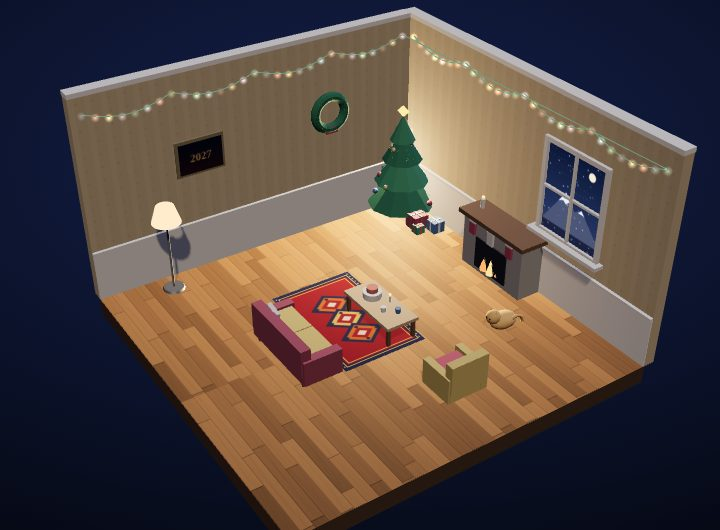
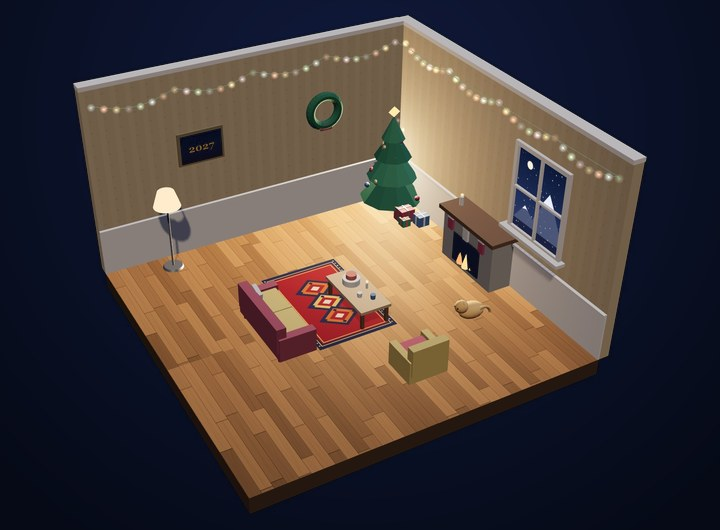
Ararat: small Sis on the left, big Masis on the right
Fire scene, room window, room TV and the saved room picture all show
the small peak on the left; Sis is lower and snow-capped.

diff --git a/public/map/index.html b/public/map/index.html
@@ -101,7 +101,7 @@
 
     <div data-view="hint">
       <h2 class="h-sub" id="panelTitle">Ամեն տեղ՝ մի սենյակ</h2>
-      <img class="lt-hint-img" src="/assets/img/room-preview.jpg?v=820f094061" alt="" width="720" height="530" loading="lazy">
+      <img class="lt-hint-img" src="/assets/img/room-preview.jpg?v=47bb290630" alt="" width="720" height="530" loading="lazy">
       <p class="muted">Վերցրու տեղ քարտեզին, և այն կդառնա քո սեփական ամանորյա սենյակը։ Զարդարիր այն եղևնիով, բազմոցով, բուխարիով և այն ամենով, ինչ սիրում ես։ Հյուրերը կարող են մտնել և ջերմություն ուղարկել։</p>
       <p class="lt-scarce">Ընդամենը 111 111 տեղ։ Մեր նպատակն է՝ լցնել բոլորը մինչև դեկտեմբերի 25-ը։ Սա միայն սկիզբն է․ միացիր մեզ, անակնկալները դեռ առջևում են։</p>
       <ol class="lt-steps">
@@ -136,7 +136,7 @@
       <h2 class="h-sub" id="dPlace"></h2>
       <p class="muted" id="dNear" style="margin-top:-6px"></p>
       <button type="button" class="lt-room" id="dRoom">
-        <span class="lt-room-img"><img id="dRoomImg" alt="" hidden><img class="lt-room-ph" src="/assets/img/room-preview.jpg?v=820f094061" alt=""></span>
+        <span class="lt-room-img"><img id="dRoomImg" alt="" hidden><img class="lt-room-ph" src="/assets/img/room-preview.jpg?v=47bb290630" alt=""></span>
         <span class="lt-room-t"><b id="dRoomT">Զարդարել սենյակը</b><span>Վերցրու տեղ քարտեզին, և այն կդառնա քո սեփական ամանորյա սենյակը։ Զարդարիր այն եղևնիով, բազմոցով, բուխարիով և այն ամենով, ինչ սիրում ես։ Հյուրերը կարող են մտնել և ջերմություն ուղարկել։</span></span>
       </button>
 
@@ -280,7 +280,7 @@
   </aside>
 </section>
 
-<div class="rm" id="roomOverlay" hidden role="dialog" aria-modal="true" aria-labelledby="rmTitle" data-three="/assets/vendor/three-r128.min.js?v=9274bbcec8" data-room="/assets/js/room.js?v=96443e5d27">
+<div class="rm" id="roomOverlay" hidden role="dialog" aria-modal="true" aria-labelledby="rmTitle" data-three="/assets/vendor/three-r128.min.js?v=9274bbcec8" data-room="/assets/js/room.js?v=ea45a5dce3">
   <canvas id="roomCanvas" aria-label="Սեղմիր իրի վրա՝ ընտրելու, քաշիր՝ տեղափոխելու համար։ Քաշիր դատարկ տեղը՝ սենյակը պտտելու համար։"></canvas>
   <div class="rm-loading" id="rmLoading"><span class="spinner" style="border-color:rgba(255,255,255,.2);border-top-color:#ffc46b"></span></div>
   <header class="rm-top">

diff --git a/public/ru/map/index.html b/public/ru/map/index.html
@@ -101,7 +101,7 @@
 
     <div data-view="hint">
       <h2 class="h-sub" id="panelTitle">Каждое место — комната</h2>
-      <img class="lt-hint-img" src="/assets/img/room-preview.jpg?v=820f094061" alt="" width="720" height="530" loading="lazy">
+      <img class="lt-hint-img" src="/assets/img/room-preview.jpg?v=47bb290630" alt="" width="720" height="530" loading="lazy">
       <p class="muted">Займите место на карте, и оно станет вашей собственной новогодней комнатой. Украсьте её ёлкой, диваном, камином и всем, что любите. Гости смогут зайти и отправить вам тепло.</p>
       <p class="lt-scarce">Всего 111 111 мест. Наша цель — заполнить их все до 25 декабря. Это только начало: присоединяйтесь, сюрпризы ещё впереди.</p>
       <ol class="lt-steps">
@@ -136,7 +136,7 @@
       <h2 class="h-sub" id="dPlace"></h2>
       <p class="muted" id="dNear" style="margin-top:-6px"></p>
       <button type="button" class="lt-room" id="dRoom">
-        <span class="lt-room-img"><img id="dRoomImg" alt="" hidden><img class="lt-room-ph" src="/assets/img/room-preview.jpg?v=820f094061" alt=""></span>
+        <span class="lt-room-img"><img id="dRoomImg" alt="" hidden><img class="lt-room-ph" src="/assets/img/room-preview.jpg?v=47bb290630" alt=""></span>
         <span class="lt-room-t"><b id="dRoomT">Украсить комнату</b><span>Займите место на карте, и оно станет вашей собственной новогодней комнатой. Украсьте её ёлкой, диваном, камином и всем, что любите. Гости смогут зайти и отправить вам тепло.</span></span>
       </button>
 
@@ -280,7 +280,7 @@
   </aside>
 </section>
 
-<div class="rm" id="roomOverlay" hidden role="dialog" aria-modal="true" aria-labelledby="rmTitle" data-three="/assets/vendor/three-r128.min.js?v=9274bbcec8" data-room="/assets/js/room.js?v=96443e5d27">
+<div class="rm" id="roomOverlay" hidden role="dialog" aria-modal="true" aria-labelledby="rmTitle" data-three="/assets/vendor/three-r128.min.js?v=9274bbcec8" data-room="/assets/js/room.js?v=ea45a5dce3">
   <canvas id="roomCanvas" aria-label="Нажмите на предмет, чтобы выбрать его, и перетащите, чтобы переставить. Тяните пустое место, чтобы повернуть комнату."></canvas>
   <div class="rm-loading" id="rmLoading"><span class="spinner" style="border-color:rgba(255,255,255,.2);border-top-color:#ffc46b"></span></div>
   <header class="rm-top">

diff --git a/public/assets/js/scene.js b/public/assets/js/scene.js
@@ -20,14 +20,14 @@
   var V_SCREEN = "varying vec2 vUv; void main(){ vUv=uv; gl_Position=vec4(position.xy,0.0,1.0); }";
   var V_OBJ = "varying vec2 vUv; void main(){ vUv=uv; gl_Position=projectionMatrix*modelViewMatrix*vec4(position,1.0); }";
 
-  // Static night: sky, stars, moon, Ararat (Masis left, Sis right, as seen from Yerevan), plain with village lights.
+  // Static night: sky, stars, moon, Ararat (Sis left, Masis right), plain with village lights.
   var F_BG = [
     "uniform vec2 uRes; uniform float uPR; uniform float uHorizon; uniform float uMX; uniform float uMH; uniform float uSX; uniform float uSH;",
     "uniform vec3 uMoon;",
     NOISE,
-    "float hM(float x){ float d=(x-uMX)/(uMH*2.4); d*= d<0.0?0.72:1.0;",
+    "float hM(float x){ float d=(x-uMX)/(uMH*2.4); d*= d>0.0?0.72:1.0;",
     "  float h=uMH*exp(-pow(abs(d)*2.6,1.4));",
-    "  h+=uMH*0.035*exp(-pow((x-(uMX+uMH*0.3))/(uMH*0.2),2.0));",
+    "  h+=uMH*0.035*exp(-pow((x-(uMX-uMH*0.3))/(uMH*0.2),2.0));",
     "  return h; }",
     "float hS(float x){ float d=abs(x-uSX)/(uSH*1.75); float r=sqrt(d*d+0.0025)-0.05; return uSH*pow(max(0.0,1.0-r),1.25); }",
     "float heightAt(float x){ float a=hM(x); float b=hS(x); float k=uMH*0.1; float hh=max(k-abs(a-b),0.0)/k; float h=max(a,b)+hh*hh*k*0.25;",
@@ -72,7 +72,7 @@
     "      float gul=fbm(vec2(x*0.045+y*0.006,y*0.02)); float ridged=1.0-abs(gul*2.0-1.0);",
     "      vec3 rock=mix(vec3(0.03,0.037,0.062),vec3(0.07,0.08,0.115),light*0.75+ridged*0.25);",
     "      float fing=pow(fbm(vec2(x*0.045,3.0)),2.2)*uMH*0.3+pow(fbm(vec2(x*0.11,9.0)),3.0)*uMH*0.12;",
-    "      float snowLine=uMH*0.7+(fbm(vec2(x*0.015,2.0))-0.5)*uMH*0.14-fing+(fbm(vec2(x,y)*0.07)-0.5)*uMH*0.05;",
+    "      float snowLine=uMH*0.55+(fbm(vec2(x*0.015,2.0))-0.5)*uMH*0.14-fing+(fbm(vec2(x,y)*0.07)-0.5)*uMH*0.05;",
     "      float sn=smoothstep(snowLine-1.5,snowLine+5.0,y);",
     "      sn*=1.0-0.35*smoothstep(0.62,0.75,fbm(vec2(x*0.035,y*0.06)+5.0));",
     "      vec3 snow=vec3(0.3,0.345,0.45)*(0.45+0.7*light)*(0.85+0.15*fbm3(vec2(x,y)*0.15));",
@@ -393,9 +393,10 @@
       L.fh = Math.min(L.fw * 1.7, H * (wide ? 0.4 : 0.3));
       L.baseY = L.horizon * 0.42;
       L.mH = wide ? Math.min(H * 0.3, W * 0.2) : Math.min(W * 0.42, H * 0.24);
-      L.mX = wide ? (center ? W * 0.3 : W * 0.5) : W * 0.24;
-      L.sX = wide ? L.mX + L.mH * 2.3 : W * 0.86;
-      L.sH = L.mH * 0.6;
+      // Sis stands on Masis's left shoulder, clearly lower (3896 m vs 5137 m).
+      L.sX = wide ? (center ? W * 0.12 : W * 0.3) : W * 0.12;
+      L.mX = L.sX + L.mH * 1.6;
+      L.sH = L.mH * 0.7;
       L.moonX = wide ? W * 0.84 : -200; L.moonY = H * 0.82; L.moonR = wide ? 11 : 9;
     }
 

diff --git a/site/assets/js/scene.js b/site/assets/js/scene.js
@@ -20,14 +20,14 @@
   var V_SCREEN = "varying vec2 vUv; void main(){ vUv=uv; gl_Position=vec4(position.xy,0.0,1.0); }";
   var V_OBJ = "varying vec2 vUv; void main(){ vUv=uv; gl_Position=projectionMatrix*modelViewMatrix*vec4(position,1.0); }";
 
-  // Static night: sky, stars, moon, Ararat (Masis left, Sis right, as seen from Yerevan), plain with village lights.
+  // Static night: sky, stars, moon, Ararat (Sis left, Masis right), plain with village lights.
   var F_BG = [
     "uniform vec2 uRes; uniform float uPR; uniform float uHorizon; uniform float uMX; uniform float uMH; uniform float uSX; uniform float uSH;",
     "uniform vec3 uMoon;",
     NOISE,
-    "float hM(float x){ float d=(x-uMX)/(uMH*2.4); d*= d<0.0?0.72:1.0;",
+    "float hM(float x){ float d=(x-uMX)/(uMH*2.4); d*= d>0.0?0.72:1.0;",
     "  float h=uMH*exp(-pow(abs(d)*2.6,1.4));",
-    "  h+=uMH*0.035*exp(-pow((x-(uMX+uMH*0.3))/(uMH*0.2),2.0));",
+    "  h+=uMH*0.035*exp(-pow((x-(uMX-uMH*0.3))/(uMH*0.2),2.0));",
     "  return h; }",
     "float hS(float x){ float d=abs(x-uSX)/(uSH*1.75); float r=sqrt(d*d+0.0025)-0.05; return uSH*pow(max(0.0,1.0-r),1.25); }",
     "float heightAt(float x){ float a=hM(x); float b=hS(x); float k=uMH*0.1; float hh=max(k-abs(a-b),0.0)/k; float h=max(a,b)+hh*hh*k*0.25;",
@@ -72,7 +72,7 @@
     "      float gul=fbm(vec2(x*0.045+y*0.006,y*0.02)); float ridged=1.0-abs(gul*2.0-1.0);",
     "      vec3 rock=mix(vec3(0.03,0.037,0.062),vec3(0.07,0.08,0.115),light*0.75+ridged*0.25);",
     "      float fing=pow(fbm(vec2(x*0.045,3.0)),2.2)*uMH*0.3+pow(fbm(vec2(x*0.11,9.0)),3.0)*uMH*0.12;",
-    "      float snowLine=uMH*0.7+(fbm(vec2(x*0.015,2.0))-0.5)*uMH*0.14-fing+(fbm(vec2(x,y)*0.07)-0.5)*uMH*0.05;",
+    "      float snowLine=uMH*0.55+(fbm(vec2(x*0.015,2.0))-0.5)*uMH*0.14-fing+(fbm(vec2(x,y)*0.07)-0.5)*uMH*0.05;",
     "      float sn=smoothstep(snowLine-1.5,snowLine+5.0,y);",
     "      sn*=1.0-0.35*smoothstep(0.62,0.75,fbm(vec2(x*0.035,y*0.06)+5.0));",
     "      vec3 snow=vec3(0.3,0.345,0.45)*(0.45+0.7*light)*(0.85+0.15*fbm3(vec2(x,y)*0.15));",
@@ -393,9 +393,10 @@
       L.fh = Math.min(L.fw * 1.7, H * (wide ? 0.4 : 0.3));
       L.baseY = L.horizon * 0.42;
       L.mH = wide ? Math.min(H * 0.3, W * 0.2) : Math.min(W * 0.42, H * 0.24);
-      L.mX = wide ? (center ? W * 0.3 : W * 0.5) : W * 0.24;
-      L.sX = wide ? L.mX + L.mH * 2.3 : W * 0.86;
-      L.sH = L.mH * 0.6;
+      // Sis stands on Masis's left shoulder, clearly lower (3896 m vs 5137 m).
+      L.sX = wide ? (center ? W * 0.12 : W * 0.3) : W * 0.12;
+      L.mX = L.sX + L.mH * 1.6;
+      L.sH = L.mH * 0.7;
       L.moonX = wide ? W * 0.84 : -200; L.moonY = H * 0.82; L.moonR = wide ? 11 : 9;
     }
 

diff --git a/public/assets/js/room.js b/public/assets/js/room.js
@@ -174,10 +174,11 @@
       g.fillStyle = sky; g.fillRect(0, 0, W, H);
       g.fillStyle = "#fff"; for (var s = 0; s < 40; s++) { g.globalAlpha = 0.3 + 0.7 * ((s * 37) % 10) / 10; g.fillRect((s * 71) % W, (s * 43) % 150, 1.4, 1.4); }
       g.globalAlpha = 1;
-      g.fillStyle = "#f6efd8"; g.beginPath(); g.arc(196, 52, 15, 0, 7); g.fill();
-      g.fillStyle = "#4b5679"; g.beginPath(); g.moveTo(-10, 300); g.lineTo(96, 150); g.lineTo(140, 200); g.lineTo(170, 182); g.lineTo(270, 290); g.lineTo(270, 330); g.lineTo(-10, 330); g.fill();
-      g.fillStyle = "#e9eefc"; g.beginPath(); g.moveTo(66, 192); g.lineTo(96, 150); g.lineTo(126, 186); g.lineTo(112, 180); g.lineTo(100, 192); g.lineTo(86, 182); g.fill();
-      g.beginPath(); g.moveTo(156, 196); g.lineTo(170, 182); g.lineTo(186, 198); g.lineTo(176, 196); g.fill();
+      g.fillStyle = "#f6efd8"; g.beginPath(); g.arc(60, 56, 15, 0, 7); g.fill();
+      // Small Sis on the left, tall Masis on the right.
+      g.fillStyle = "#4b5679"; g.beginPath(); g.moveTo(-10, 300); g.lineTo(58, 214); g.lineTo(102, 250); g.lineTo(176, 112); g.lineTo(270, 280); g.lineTo(270, 330); g.lineTo(-10, 330); g.fill();
+      g.fillStyle = "#e9eefc"; g.beginPath(); g.moveTo(140, 168); g.lineTo(176, 112); g.lineTo(212, 168); g.lineTo(198, 160); g.lineTo(186, 174); g.lineTo(172, 160); g.lineTo(156, 172); g.fill();
+      g.beginPath(); g.moveTo(44, 232); g.lineTo(58, 214); g.lineTo(76, 230); g.lineTo(66, 226); g.fill();
       g.fillStyle = "#1a2140"; g.fillRect(0, 285, W, 40);
       g.fillStyle = "#ffd27a"; [[30, 292], [62, 296], [120, 290], [180, 295], [220, 291]].forEach(function (p) { g.fillRect(p[0], p[1], 3, 3); });
       g.fillStyle = "#fff";
@@ -200,7 +201,7 @@
       }
       if (t.mode === 2) { // snowy Ararat
         var sk = g.createLinearGradient(0, 0, 0, H); sk.addColorStop(0, "#0d1a40"); sk.addColorStop(1, "#33406b"); g.fillStyle = sk; g.fillRect(0, 0, W, H);
-        g.fillStyle = "#e9eefc"; g.beginPath(); g.moveTo(20, 130); g.lineTo(110, 50); g.lineTo(150, 90); g.lineTo(175, 75); g.lineTo(250, 130); g.fill();
+        g.fillStyle = "#e9eefc"; g.beginPath(); g.moveTo(6, 130); g.lineTo(66, 92); g.lineTo(98, 108); g.lineTo(162, 40); g.lineTo(250, 130); g.fill();
         g.fillStyle = "#fff"; for (var q = 0; q < 40; q++) { g.fillRect((q * 53 + time * 20) % W, (q * 29 + time * 30) % H, 2, 2); }
         t.needsUpdate = true; return;
       }

diff --git a/site/assets/js/room.js b/site/assets/js/room.js
@@ -174,10 +174,11 @@
       g.fillStyle = sky; g.fillRect(0, 0, W, H);
       g.fillStyle = "#fff"; for (var s = 0; s < 40; s++) { g.globalAlpha = 0.3 + 0.7 * ((s * 37) % 10) / 10; g.fillRect((s * 71) % W, (s * 43) % 150, 1.4, 1.4); }
       g.globalAlpha = 1;
-      g.fillStyle = "#f6efd8"; g.beginPath(); g.arc(196, 52, 15, 0, 7); g.fill();
-      g.fillStyle = "#4b5679"; g.beginPath(); g.moveTo(-10, 300); g.lineTo(96, 150); g.lineTo(140, 200); g.lineTo(170, 182); g.lineTo(270, 290); g.lineTo(270, 330); g.lineTo(-10, 330); g.fill();
-      g.fillStyle = "#e9eefc"; g.beginPath(); g.moveTo(66, 192); g.lineTo(96, 150); g.lineTo(126, 186); g.lineTo(112, 180); g.lineTo(100, 192); g.lineTo(86, 182); g.fill();
-      g.beginPath(); g.moveTo(156, 196); g.lineTo(170, 182); g.lineTo(186, 198); g.lineTo(176, 196); g.fill();
+      g.fillStyle = "#f6efd8"; g.beginPath(); g.arc(60, 56, 15, 0, 7); g.fill();
+      // Small Sis on the left, tall Masis on the right.
+      g.fillStyle = "#4b5679"; g.beginPath(); g.moveTo(-10, 300); g.lineTo(58, 214); g.lineTo(102, 250); g.lineTo(176, 112); g.lineTo(270, 280); g.lineTo(270, 330); g.lineTo(-10, 330); g.fill();
+      g.fillStyle = "#e9eefc"; g.beginPath(); g.moveTo(140, 168); g.lineTo(176, 112); g.lineTo(212, 168); g.lineTo(198, 160); g.lineTo(186, 174); g.lineTo(172, 160); g.lineTo(156, 172); g.fill();
+      g.beginPath(); g.moveTo(44, 232); g.lineTo(58, 214); g.lineTo(76, 230); g.lineTo(66, 226); g.fill();
       g.fillStyle = "#1a2140"; g.fillRect(0, 285, W, 40);
       g.fillStyle = "#ffd27a"; [[30, 292], [62, 296], [120, 290], [180, 295], [220, 291]].forEach(function (p) { g.fillRect(p[0], p[1], 3, 3); });
       g.fillStyle = "#fff";
@@ -200,7 +201,7 @@
       }
       if (t.mode === 2) { // snowy Ararat
         var sk = g.createLinearGradient(0, 0, 0, H); sk.addColorStop(0, "#0d1a40"); sk.addColorStop(1, "#33406b"); g.fillStyle = sk; g.fillRect(0, 0, W, H);
-        g.fillStyle = "#e9eefc"; g.beginPath(); g.moveTo(20, 130); g.lineTo(110, 50); g.lineTo(150, 90); g.lineTo(175, 75); g.lineTo(250, 130); g.fill();
+        g.fillStyle = "#e9eefc"; g.beginPath(); g.moveTo(6, 130); g.lineTo(66, 92); g.lineTo(98, 108); g.lineTo(162, 40); g.lineTo(250, 130); g.fill();
         g.fillStyle = "#fff"; for (var q = 0; q < 40; q++) { g.fillRect((q * 53 + time * 20) % W, (q * 29 + time * 30) % H, 2, 2); }
         t.needsUpdate = true; return;
       }

diff --git a/public/en/map/index.html b/public/en/map/index.html
@@ -101,7 +101,7 @@
 
     <div data-view="hint">
       <h2 class="h-sub" id="panelTitle">Every place is a room</h2>
-      <img class="lt-hint-img" src="/assets/img/room-preview.jpg?v=820f094061" alt="" width="720" height="530" loading="lazy">
+      <img class="lt-hint-img" src="/assets/img/room-preview.jpg?v=47bb290630" alt="" width="720" height="530" loading="lazy">
       <p class="muted">Take a place on the map and it becomes your own New Year room. Decorate it with a tree, a sofa, a fireplace and whatever you love. Guests can step inside and send you warmth.</p>
       <p class="lt-scarce">Only 111,111 places. Our goal is to fill them all by 25 December. This is only the beginning: join us, the surprises are still to come.</p>
       <ol class="lt-steps">
@@ -136,7 +136,7 @@
       <h2 class="h-sub" id="dPlace"></h2>
       <p class="muted" id="dNear" style="margin-top:-6px"></p>
       <button type="button" class="lt-room" id="dRoom">
-        <span class="lt-room-img"><img id="dRoomImg" alt="" hidden><img class="lt-room-ph" src="/assets/img/room-preview.jpg?v=820f094061" alt=""></span>
+        <span class="lt-room-img"><img id="dRoomImg" alt="" hidden><img class="lt-room-ph" src="/assets/img/room-preview.jpg?v=47bb290630" alt=""></span>
         <span class="lt-room-t"><b id="dRoomT">Decorate the room</b><span>Take a place on the map and it becomes your own New Year room. Decorate it with a tree, a sofa, a fireplace and whatever you love. Guests can step inside and send you warmth.</span></span>
       </button>
 
@@ -280,7 +280,7 @@
   </aside>
 </section>
 
-<div class="rm" id="roomOverlay" hidden role="dialog" aria-modal="true" aria-labelledby="rmTitle" data-three="/assets/vendor/three-r128.min.js?v=9274bbcec8" data-room="/assets/js/room.js?v=96443e5d27">
+<div class="rm" id="roomOverlay" hidden role="dialog" aria-modal="true" aria-labelledby="rmTitle" data-three="/assets/vendor/three-r128.min.js?v=9274bbcec8" data-room="/assets/js/room.js?v=ea45a5dce3">
   <canvas id="roomCanvas" aria-label="Tap an item to select it, drag to move it. Drag empty space to turn the room."></canvas>
   <div class="rm-loading" id="rmLoading"><span class="spinner" style="border-color:rgba(255,255,255,.2);border-top-color:#ffc46b"></span></div>
   <header class="rm-top">

diff --git a/public/live/index.html b/public/live/index.html
@@ -89,7 +89,7 @@
       <span><b data-stat="gift_fund_amd" data-format="price">—</b>Նվերների ֆոնդում</span>
     </div>
   </div>
-  <aside class="live-side" id="liveSide" data-map="/assets/data/map.js?v=ffa42527cb" data-three="/assets/vendor/three-r128.min.js?v=9274bbcec8" data-room="/assets/js/room.js?v=96443e5d27" aria-label="Քո տեղը Հայաստանի քարտեզին">
+  <aside class="live-side" id="liveSide" data-map="/assets/data/map.js?v=ffa42527cb" data-three="/assets/vendor/three-r128.min.js?v=9274bbcec8" data-room="/assets/js/room.js?v=ea45a5dce3" aria-label="Քո տեղը Հայաստանի քարտեզին">
     <div class="ls-card">
       <div class="ls-head"><span class="live-pill"><span class="dot" aria-hidden="true"></span>Հայաստանի քարտեզը</span><span class="ls-count"><b id="lsLit">—</b> / 111 111</span></div>
       <div class="ls-stage">
@@ -156,7 +156,7 @@
 
 <script src="/assets/vendor/three-r128.min.js?v=9274bbcec8" defer></script>
 <script src="/assets/vendor/gsap-3.12.5.min.js?v=28033e449a" defer></script>
-<script src="/assets/js/scene.js?v=b7917ee8d0" defer></script>
+<script src="/assets/js/scene.js?v=8fa1f33854" defer></script>
 <script src="/assets/js/site.js?v=9c99a52b63" defer></script>
 <script src="/assets/js/mapcore.js?v=c3f139aad1" defer></script>
 <script src="/assets/js/live.js?v=fc76432f78" defer></script>

diff --git a/public/ru/live/index.html b/public/ru/live/index.html
@@ -89,7 +89,7 @@
       <span><b data-stat="gift_fund_amd" data-format="price">—</b>В фонде подарков</span>
     </div>
   </div>
-  <aside class="live-side" id="liveSide" data-map="/assets/data/map.js?v=ffa42527cb" data-three="/assets/vendor/three-r128.min.js?v=9274bbcec8" data-room="/assets/js/room.js?v=96443e5d27" aria-label="Ваше место на карте Армении">
+  <aside class="live-side" id="liveSide" data-map="/assets/data/map.js?v=ffa42527cb" data-three="/assets/vendor/three-r128.min.js?v=9274bbcec8" data-room="/assets/js/room.js?v=ea45a5dce3" aria-label="Ваше место на карте Армении">
     <div class="ls-card">
       <div class="ls-head"><span class="live-pill"><span class="dot" aria-hidden="true"></span>Карта Армении</span><span class="ls-count"><b id="lsLit">—</b> / 111 111</span></div>
       <div class="ls-stage">
@@ -156,7 +156,7 @@
 
 <script src="/assets/vendor/three-r128.min.js?v=9274bbcec8" defer></script>
 <script src="/assets/vendor/gsap-3.12.5.min.js?v=28033e449a" defer></script>
-<script src="/assets/js/scene.js?v=b7917ee8d0" defer></script>
+<script src="/assets/js/scene.js?v=8fa1f33854" defer></script>
 <script src="/assets/js/site.js?v=9c99a52b63" defer></script>
 <script src="/assets/js/mapcore.js?v=c3f139aad1" defer></script>
 <script src="/assets/js/live.js?v=fc76432f78" defer></script>

diff --git a/public/en/live/index.html b/public/en/live/index.html
@@ -89,7 +89,7 @@
       <span><b data-stat="gift_fund_amd" data-format="price">—</b>In the gift fund</span>
     </div>
   </div>
-  <aside class="live-side" id="liveSide" data-map="/assets/data/map.js?v=ffa42527cb" data-three="/assets/vendor/three-r128.min.js?v=9274bbcec8" data-room="/assets/js/room.js?v=96443e5d27" aria-label="Your place on the map of Armenia">
+  <aside class="live-side" id="liveSide" data-map="/assets/data/map.js?v=ffa42527cb" data-three="/assets/vendor/three-r128.min.js?v=9274bbcec8" data-room="/assets/js/room.js?v=ea45a5dce3" aria-label="Your place on the map of Armenia">
     <div class="ls-card">
       <div class="ls-head"><span class="live-pill"><span class="dot" aria-hidden="true"></span>The map of Armenia</span><span class="ls-count"><b id="lsLit">—</b> / 111,111</span></div>
       <div class="ls-stage">
@@ -156,7 +156,7 @@
 
 <script src="/assets/vendor/three-r128.min.js?v=9274bbcec8" defer></script>
 <script src="/assets/vendor/gsap-3.12.5.min.js?v=28033e449a" defer></script>
-<script src="/assets/js/scene.js?v=b7917ee8d0" defer></script>
+<script src="/assets/js/scene.js?v=8fa1f33854" defer></script>
 <script src="/assets/js/site.js?v=9c99a52b63" defer></script>
 <script src="/assets/js/mapcore.js?v=c3f139aad1" defer></script>
 <script src="/assets/js/live.js?v=fc76432f78" defer></script>

diff --git a/public/ru/index.html b/public/ru/index.html
@@ -97,7 +97,7 @@
     <h2 class="h-section" id="doTitle" data-reveal>Что можно сделать</h2>
     <div class="ld-do">
       <a class="ld-card" href="/ru/map/" data-reveal>
-        <img src="/assets/img/room-preview.jpg?v=820f094061" alt="" loading="lazy" width="720" height="530">
+        <img src="/assets/img/room-preview.jpg?v=47bb290630" alt="" loading="lazy" width="720" height="530">
         <span class="n">1</span><b>Займите место, создайте комнату</b><p>Выберите любое свободное место на карте. Оно станет вашей новогодней комнатой: украсьте её и добавьте имя.</p><span class="link-arrow">Открыть карту →</span>
       </a>
       <a class="ld-card" href="/ru/map/#top" data-reveal>

diff --git a/public/index.html b/public/index.html
@@ -97,7 +97,7 @@
     <h2 class="h-section" id="doTitle" data-reveal>Ինչ կարող ես անել</h2>
     <div class="ld-do">
       <a class="ld-card" href="/map/" data-reveal>
-        <img src="/assets/img/room-preview.jpg?v=820f094061" alt="" loading="lazy" width="720" height="530">
+        <img src="/assets/img/room-preview.jpg?v=47bb290630" alt="" loading="lazy" width="720" height="530">
         <span class="n">1</span><b>Վերցրու տեղ, ստեղծիր սենյակ</b><p>Ընտրիր ցանկացած ազատ տեղ քարտեզին։ Այն դառնում է քո ամանորյա սենյակը․ զարդարիր այն և ավելացրու անունդ։</p><span class="link-arrow">Բացել քարտեզը →</span>
       </a>
       <a class="ld-card" href="/map/#top" data-reveal>
